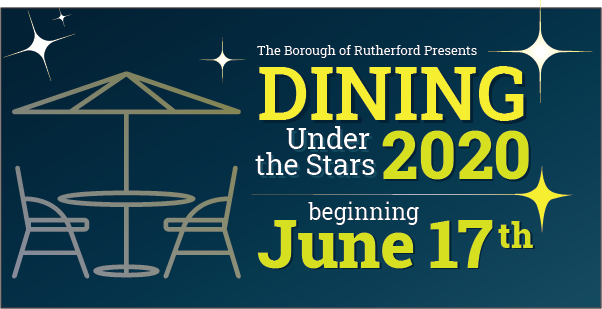
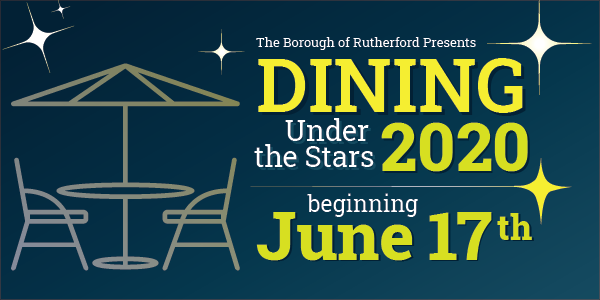
Crop image (#151)

diff --git a/index.html b/index.html
@@ -39,7 +39,7 @@ title: '07070'
 
 <div class="homepage-right">
   <div class="homepage-right-top-image">
-    <img src="/static/images/DiningUnderTheStars2020.png" alt="Dining Under The Stars 2020" />
+    <img src="/static/images/DiningUnderTheStars2020.png?zx={{ "now" | date: "%s" }}" alt="Dining Under The Stars 2020" />
   </div>
   <!--
   <style>
